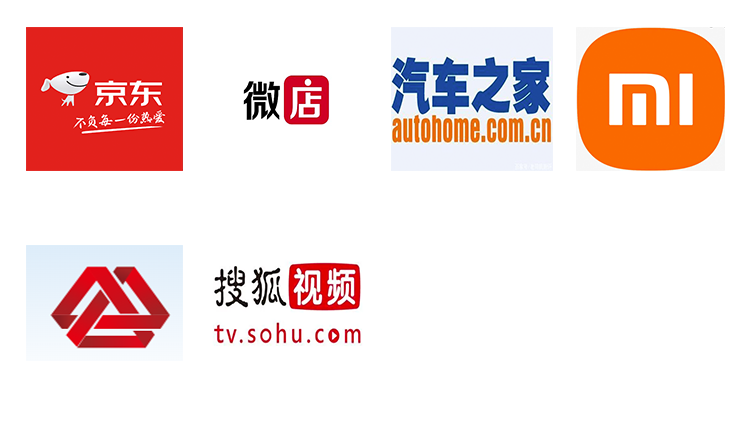
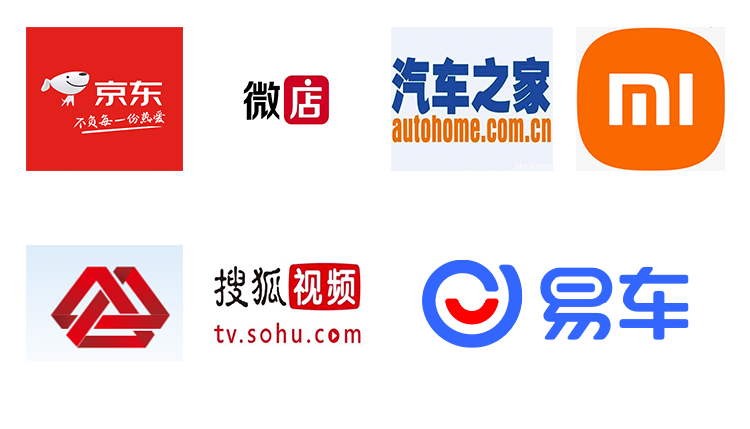
修改接入&共建公司logo.

Changed region(s): [[0.552, 0.6061, 0.92, 0.8182]]

diff --git a/README.md b/README.md
@@ -273,5 +273,3 @@ Object JdHotKeyStore.getValue(String key)
 ### 接入、共建公司
 
 ![输入图片说明](image/sou.png)
-
-![输入图片说明](image/yiche.png)
